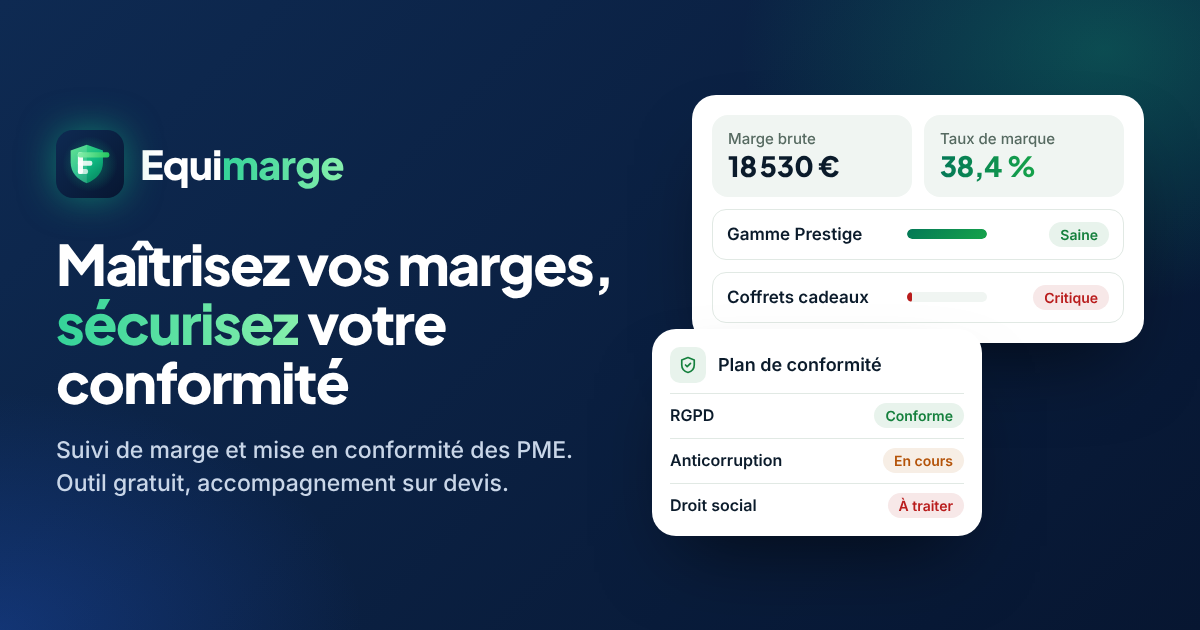
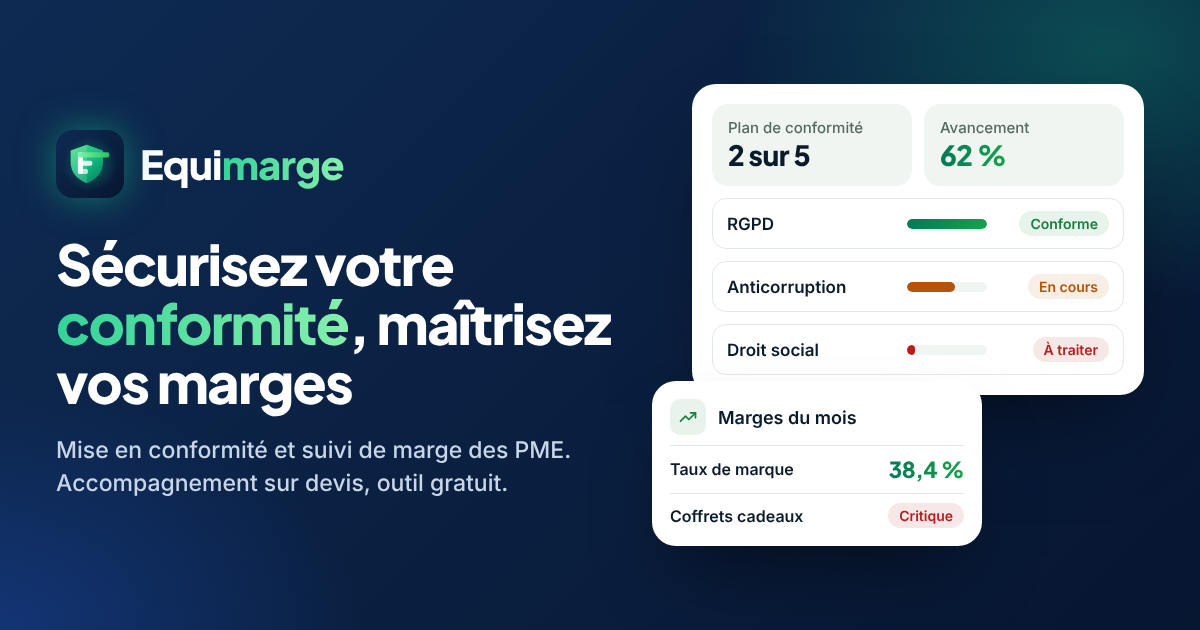
La conformité passe avant les marges
- Accueil : accroche « Sécurisez votre conformité, maîtrisez vos marges », bouton
  principal « Demander un devis conformité », plan de conformité au premier plan
  de l'aperçu (marges en carte superposée), carte et section conformité avant
  les sections marges, bandeau final dans le même ordre
- Menu « Conformité, Marges », pied de page, titre et description du site
- Image de partage et texte alternatif mis à jour ; README

Claude-Session: https://claude.ai/code/session_01CR83eczzPtdnhXQ2LCXJj5

diff --git a/app/page.jsx b/app/page.jsx
@@ -1,6 +1,6 @@
 import Link from 'next/link';
 import { COMPLIANCE, OFFERS } from '@/components/offers';
-import { ArrowRight, BarChart, Check, Clock, DOMAIN_ICONS, Pencil, Shield, Target } from '@/components/icons';
+import { ArrowRight, BarChart, Check, Clock, DOMAIN_ICONS, Pencil, Shield, Target, TrendUp } from '@/components/icons';
 import { siteUrl } from '@/lib/site';
 
 export const metadata = { alternates: { canonical: '/' } };
@@ -29,20 +29,20 @@ const STEPS = [
   },
 ];
 
-// Données fictives de l'aperçu : les marges additionnées donnent la marge brute affichée.
-const SAMPLE = [
-  { name: 'Gamme Prestige', margin: '8 900 €', width: 100, state: 'ok', label: 'Saine' },
-  { name: 'Service installation', margin: '6 120 €', width: 69, state: 'ok', label: 'Saine' },
-  { name: 'Pièces détachées', margin: '2 950 €', width: 33, state: 'warn', label: 'À surveiller' },
-  { name: 'Coffrets cadeaux', margin: '560 €', width: 6, state: 'bad', label: 'Critique' },
+// Exemple de plan d'action conformité (livrable de l'étape 2 de la démarche) :
+// l'avancement affiché est la moyenne des cinq domaines.
+const PLAN = [
+  { name: 'RGPD', progress: 100, state: 'ok', label: 'Conforme' },
+  { name: 'Procédures internes', progress: 100, state: 'ok', label: 'Conforme' },
+  { name: 'Anticorruption', progress: 60, state: 'warn', label: 'En cours' },
+  { name: 'Anti-blanchiment', progress: 40, state: 'warn', label: 'En cours' },
+  { name: 'Droit social', progress: 10, state: 'bad', label: 'À traiter' },
 ];
 
-// Exemple de plan d'action conformité (livrable de l'étape 2 de la démarche)
-const PLAN = [
-  { name: 'RGPD', state: 'ok', label: 'Conforme' },
-  { name: 'Procédures internes', state: 'ok', label: 'Conforme' },
-  { name: 'Anticorruption', state: 'warn', label: 'En cours' },
-  { name: 'Droit social', state: 'bad', label: 'À traiter' },
+// Exemple de suivi de marge (outil gratuit)
+const SAMPLE = [
+  { name: 'Gamme Prestige', state: 'ok', label: 'Saine' },
+  { name: 'Coffrets cadeaux', state: 'bad', label: 'Critique' },
 ];
 
 function Preview() {
@@ -51,21 +51,21 @@ function Preview() {
       <div className="preview-card">
         <div className="preview-head">
           <span className="preview-dots"><i /><i /><i /></span>
-          <span>Exemple · tableau de bord mensuel</span>
+          <span>Exemple · plan d'action conformité</span>
         </div>
         <div className="preview-kpis">
-          <div><small>Chiffre d'affaires</small><b>48&#8239;200&nbsp;€</b></div>
-          <div><small>Marge brute</small><b>18&#8239;530&nbsp;€</b></div>
-          <div><small>Taux de marque</small><b className="grad-text">38,4&nbsp;%</b></div>
+          <div><small>Domaines suivis</small><b>5</b></div>
+          <div><small>Conformes</small><b>2 sur 5</b></div>
+          <div><small>Avancement</small><b className="grad-text">62&nbsp;%</b></div>
         </div>
         <div className="preview-rows">
-          {SAMPLE.map((r) => (
+          {PLAN.map((r) => (
             <div className="preview-row" key={r.name}>
               <span className="name">{r.name}</span>
               <div className="track">
-                <div className={'fill' + (r.state === 'ok' ? '' : ' ' + r.state)} style={{ width: `${r.width}%` }} />
+                <div className={'fill' + (r.state === 'ok' ? '' : ' ' + r.state)} style={{ width: `${r.progress}%` }} />
               </div>
-              <span className="v">{r.margin}</span>
+              <span className="v">{r.progress}&nbsp;%</span>
               <span className={'pill ' + r.state}>{r.label}</span>
             </div>
           ))}
@@ -73,11 +73,12 @@ function Preview() {
       </div>
       <div className="plan-card">
         <div className="plan-head">
-          <span className="float-icon ok"><Shield size={18} /></span>
-          <div><small>Exemple · plan d'action</small><b>Conformité</b></div>
+          <span className="float-icon ok"><TrendUp size={18} /></span>
+          <div><small>Exemple · tableau de bord</small><b>Marges du mois</b></div>
         </div>
-        <div className="meter"><span style={{ width: '60%' }} /></div>
-        {PLAN.map((r) => (
+        <div className="plan-row"><span>Taux de marque</span><b className="grad-text">38,4&nbsp;%</b></div>
+        <div className="plan-row"><span>Marge brute</span><b>18&#8239;530&nbsp;€</b></div>
+        {SAMPLE.map((r) => (
           <div className="plan-row" key={r.name}>
             <span>{r.name}</span>
             <span className={'pill ' + r.state}>{r.label}</span>
@@ -103,24 +104,24 @@ export default function Home() {
         <div className="rise">
           <span className="badge"><span className="badge-dot" />Pour les dirigeants de PME</span>
           <h1>
-            Maîtrisez vos marges, <span className="grad-text">sécurisez</span> votre conformité
+            Sécurisez votre <span className="grad-text">conformité</span>, maîtrisez vos marges
           </h1>
           <p className="lead">
-            Equimarge accompagne les PME sur deux terrains : le suivi de la marge de chaque produit, avec un outil gratuit
-            et un diagnostic sur mesure, et la mise en conformité de l'entreprise : procédures internes, RGPD,
-            anti-blanchiment, anticorruption et droit social.
+            Equimarge accompagne les PME sur deux terrains : la mise en conformité de l'entreprise (procédures internes,
+            RGPD, anti-blanchiment, anticorruption, droit social) et le suivi de la marge de chaque produit, avec un outil
+            gratuit et un diagnostic sur mesure.
           </p>
           <div className="row">
-            <Link href="/connexion?mode=inscription" className="btn lg">
-              Créer mon espace gratuit <ArrowRight size={18} />
+            <Link href="/conformite#devis" className="btn lg">
+              Demander un devis conformité <ArrowRight size={18} />
             </Link>
-            <Link href="/conformite#devis" className="btn ghost lg">
-              Demander un devis conformité
+            <Link href="/connexion?mode=inscription" className="btn ghost lg">
+              Créer mon espace gratuit
             </Link>
           </div>
           <ul className="trust">
-            <li><Check size={18} />Outil de marge gratuit</li>
             <li><Check size={18} />Conformité sur devis</li>
+            <li><Check size={18} />Outil de marge gratuit</li>
             <li><Check size={18} />Réponse sous 48&nbsp;h ouvrées</li>
           </ul>
         </div>
@@ -130,10 +131,27 @@ export default function Home() {
       <section className="section">
         <div className="section-head center">
           <span className="eyebrow">Deux pôles</span>
-          <h2>Vos marges et votre conformité, au même endroit</h2>
+          <h2>Votre conformité et vos marges, au même endroit</h2>
           <p>Choisissez par où commencer : les deux se complètent.</p>
         </div>
         <div className="grid2 poles">
+          <article className="pole">
+            <div className="feature-icon"><Shield size={22} /></div>
+            <span className="eyebrow">Pôle conformité</span>
+            <h3>Sécurisez votre entreprise</h3>
+            <p className="note">
+              Audit et accompagnement pour mettre en place vos politiques et procédures et répondre à vos obligations.
+            </p>
+            <ul className="checks">
+              {COMPLIANCE.map((d) => (
+                <li key={d.key}><Check size={16} />{d.id}</li>
+              ))}
+            </ul>
+            <div className="row">
+              <Link href="/conformite#devis" className="btn">Demander un devis</Link>
+              <Link href="/conformite" className="btn ghost">Découvrir</Link>
+            </div>
+          </article>
           <article className="pole">
             <div className="feature-icon"><BarChart size={22} /></div>
             <span className="eyebrow">Pôle marges</span>
@@ -152,23 +170,32 @@ export default function Home() {
               <a href="#formules" className="btn ghost">Voir les formules</a>
             </div>
           </article>
-          <article className="pole">
-            <div className="feature-icon"><Shield size={22} /></div>
-            <span className="eyebrow">Pôle conformité</span>
-            <h3>Sécurisez votre entreprise</h3>
-            <p className="note">
-              Audit et accompagnement pour mettre en place vos politiques et procédures et répondre à vos obligations.
-            </p>
-            <ul className="checks">
-              {COMPLIANCE.map((d) => (
-                <li key={d.key}><Check size={16} />{d.id}</li>
-              ))}
-            </ul>
-            <div className="row">
-              <Link href="/conformite#devis" className="btn">Demander un devis</Link>
-              <Link href="/conformite" className="btn ghost">Découvrir</Link>
-            </div>
-          </article>
+        </div>
+      </section>
+
+      <section className="section" id="conformite">
+        <div className="section-head center">
+          <span className="eyebrow">Pôle conformité</span>
+          <h2>Cinq domaines d'intervention</h2>
+          <p>Sur devis, selon votre taille et votre secteur. Réponse sous 48&nbsp;h ouvrées.</p>
+        </div>
+        <div className="grid3 grid-center">
+          {COMPLIANCE.map((d) => {
+            const Icon = DOMAIN_ICONS[d.key];
+            return (
+              <Link key={d.key} href={`/conformite?domaine=${d.key}#devis`} className="feature domain-card">
+                <div className="feature-icon"><Icon size={22} /></div>
+                <h3>{d.id}</h3>
+                <p className="note">{d.intro}</p>
+                <span className="domain-link">Demander un devis <ArrowRight size={16} /></span>
+              </Link>
+            );
+          })}
+        </div>
+        <div className="row" style={{ justifyContent: 'center' }}>
+          <Link href="/conformite" className="btn ghost lg">
+            Découvrir l'accompagnement conformité
+          </Link>
         </div>
       </section>
 
@@ -220,43 +247,17 @@ export default function Home() {
         </div>
       </section>
 
-      <section className="section" id="conformite">
-        <div className="section-head center">
-          <span className="eyebrow">Pôle conformité</span>
-          <h2>Cinq domaines d'intervention</h2>
-          <p>Sur devis, selon votre taille et votre secteur. Réponse sous 48&nbsp;h ouvrées.</p>
-        </div>
-        <div className="grid3 grid-center">
-          {COMPLIANCE.map((d) => {
-            const Icon = DOMAIN_ICONS[d.key];
-            return (
-              <Link key={d.key} href={`/conformite?domaine=${d.key}#devis`} className="feature domain-card">
-                <div className="feature-icon"><Icon size={22} /></div>
-                <h3>{d.id}</h3>
-                <p className="note">{d.intro}</p>
-                <span className="domain-link">Demander un devis <ArrowRight size={16} /></span>
-              </Link>
-            );
-          })}
-        </div>
-        <div className="row" style={{ justifyContent: 'center' }}>
-          <Link href="/conformite" className="btn ghost lg">
-            Découvrir l'accompagnement conformité
-          </Link>
-        </div>
-      </section>
-
       <section className="cta">
         <div>
           <h2>Parlons de votre entreprise</h2>
-          <p>Outil de marge gratuit, conformité sur devis. Réponse sous 48&nbsp;h ouvrées.</p>
+          <p>Conformité sur devis, outil de marge gratuit. Réponse sous 48&nbsp;h ouvrées.</p>
         </div>
         <div className="row">
-          <Link href="/connexion?mode=inscription" className="btn inverse lg">
-            Créer mon espace gratuit <ArrowRight size={18} />
+          <Link href="/conformite#devis" className="btn inverse lg">
+            Demander un devis conformité <ArrowRight size={18} />
           </Link>
-          <Link href="/conformite#devis" className="btn on-grad lg">
-            Demander un devis conformité
+          <Link href="/connexion?mode=inscription" className="btn on-grad lg">
+            Créer mon espace gratuit
           </Link>
         </div>
       </section>

diff --git a/app/layout.jsx b/app/layout.jsx
@@ -4,9 +4,9 @@ import { createClient } from '@/lib/supabase/server';
 import { LogOut, LogoMark } from '@/components/icons';
 import { siteUrl } from '@/lib/site';
 
-const TITLE = 'Equimarge — marges et conformité des PME';
+const TITLE = 'Equimarge — conformité et marges des PME';
 const DESCRIPTION =
-  'Suivi de marge gratuit, diagnostic et mise en conformité des PME : procédures internes, RGPD, anti-blanchiment, anticorruption, droit social.';
+  'Mise en conformité des PME (procédures internes, RGPD, anti-blanchiment, anticorruption, droit social), diagnostic et suivi de marge gratuit.';
 
 export function generateMetadata() {
   return {
@@ -55,11 +55,11 @@ export default async function RootLayout({ children }) {
               </span>
             </Link>
             <nav className="nav" aria-label="Navigation principale">
-              <Link href="/#marges" className="nav-link">
-                Marges
-              </Link>
               <Link href="/conformite" className="nav-link">
                 Conformité
+              </Link>
+              <Link href="/#marges" className="nav-link">
+                Marges
               </Link>
               {user ? (
                 <>
@@ -93,11 +93,11 @@ export default async function RootLayout({ children }) {
                   Equi<span>marge</span>
                 </span>
               </Link>
-              <p>Marges et conformité des PME.</p>
+              <p>Conformité et marges des PME.</p>
             </div>
             <nav className="footer-links" aria-label="Liens du pied de page">
-              <Link href="/diagnostic">Diagnostic de marge</Link>
               <Link href="/conformite">Conformité</Link>
+              <Link href="/diagnostic">Diagnostic de marge</Link>
               <Link href="/mentions-legales">Mentions légales</Link>
               <Link href="/confidentialite">Confidentialité</Link>
               <a href="mailto:contact@equimarge.fr">contact@equimarge.fr</a>

diff --git a/README.md b/README.md
@@ -1,6 +1,6 @@
 # Equimarge
 
-Site et application pour PME, en deux pôles : suivi de marge (outil gratuit et diagnostic) et mise en conformité (sur devis).
+Site et application pour PME, en deux pôles : mise en conformité (sur devis) et suivi de marge (outil gratuit et diagnostic).
 
 - **Accueil** : présentation et formules.
 - **Mon espace** (`/tableau-de-bord`) : chaque client saisit ses produits ; marge, taux de marque, alertes et seuil de rentabilité sont calculés et sauvegardés.
